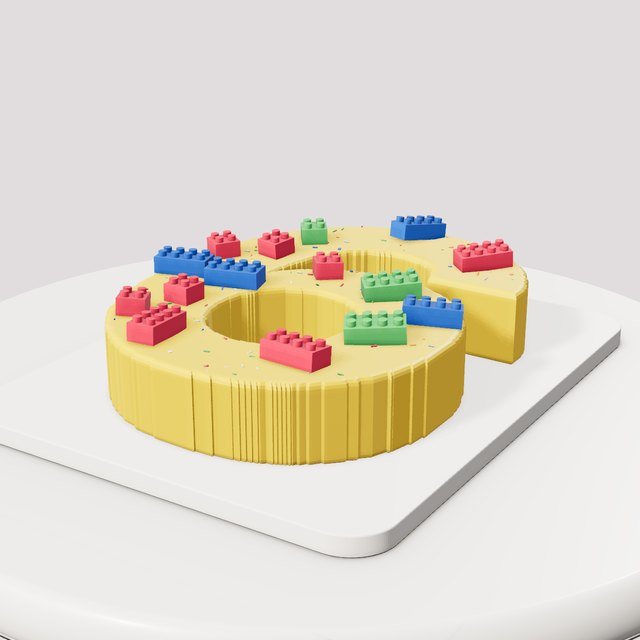
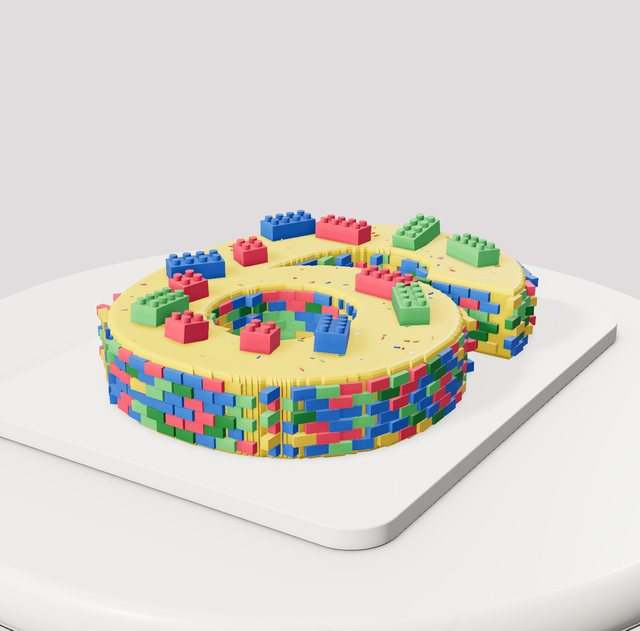
Signature cakes: true shapes (money bag, pillow tiers, LEGO brick wall), droopier cow ears
Claude-Session: https://claude.ai/code/session_016sN14hzH19WJ5zrp8o2QGp

diff --git a/studio.html b/studio.html
@@ -532,7 +532,7 @@ const prof=s=>s<.32?Math.pow(Math.sin(s/.32*PI/2),.6):Math.pow(Math.cos((s-.32)/
 
 // Hand-made wobble of a tier wall. Shared by the tier mesh and every piece of piping, so piping follows the real surface.
 function tierWobble(h,ch,seed){const f=fbm(4,3,seed),r0=rng(seed),p1=r0()*6.28,p2=r0()*6.28;return(a,y)=>{const u=((a/(2*PI))%1+1)%1,t=Math.min(1,Math.max(0,y/h));return 1+ch*(.004*Math.sin(a*2+p1+t*1.4)+.003*Math.sin(a*3+p2)+(f(u,t*.6)-.5)*.006+.004*Math.sin(PI*t))}}
-function tierGeo(r,h,edge,W,rows=30,segs=200,SH=null){const soft=edge==='soft',P=[],b=soft?Math.min(h*.07,.32):Math.min(h*.018,.07),bb=b*.35,lip=soft?h*.006:h*.004;P.push(new V2(0,0),new V2(r-bb,0),new V2(r,bb));for(let k=1;k<=rows;k++)P.push(new V2(r,bb+(h-b-bb)*k/rows));for(let i=1;i<=8;i++){const a=i/8*PI/2;P.push(new V2(r-b+Math.cos(a)*b,h-b+Math.sin(a)*b+Math.sin(a*2)*lip))}P.push(new V2(r-b-.06,h+lip*.6),new V2(r-b-.25,h),new V2(0,h));const g=new T.LatheGeometry(P,segs),p=g.attributes.position;for(let i=0;i<p.count;i++){const x=p.getX(i),y=p.getY(i),z=p.getZ(i),rr=Math.hypot(x,z);if(rr<1e-6)continue;const aa=Math.atan2(z,x),k=rr>r*.9?W(aa,y):(SH?SH(aa):1);if(k!==1){p.setX(i,x*k);p.setZ(i,z*k)}}g.computeVertexNormals();return g}
+function tierGeo(r,h,edge,W,rows=30,segs=200,SH=null,PF=null){const soft=edge==='soft',P=[],b=soft?Math.min(h*.07,.32):Math.min(h*.018,.07),bb=b*.35,lip=soft?h*.006:h*.004;P.push(new V2(0,0),new V2(r-bb,0),new V2(r,bb));for(let k=1;k<=rows;k++)P.push(new V2(r,bb+(h-b-bb)*k/rows));for(let i=1;i<=8;i++){const a=i/8*PI/2;P.push(new V2(r-b+Math.cos(a)*b,h-b+Math.sin(a)*b+Math.sin(a*2)*lip))}P.push(new V2(r-b-.06,h+lip*.6),new V2(r-b-.25,h),new V2(0,h));const g=new T.LatheGeometry(P,segs),p=g.attributes.position;for(let i=0;i<p.count;i++){const x=p.getX(i),y=p.getY(i),z=p.getZ(i),rr=Math.hypot(x,z);if(rr<1e-6)continue;const aa=Math.atan2(z,x),k0=rr>r*.9?W(aa,y):(SH?SH(aa):1),k=PF?k0*PF(y/h):k0;if(k!==1){p.setX(i,x*k);p.setZ(i,z*k)}}g.computeVertexNormals();return g}
 
 // Piped rosettes like a 1M open star tip: start in the center, swirl outward about 1.4 turns, ease off the pressure so the tail tucks in with no point.
 // 2D closed star gives more, finer ridges and a tighter flower-like swirl.
@@ -1131,6 +1131,8 @@ const texFade=(yy,h)=>smooth(.03,.3,yy)*smooth(h-.02,h-.32,yy);
 
 // ---------------------------------------------------------------- Cake shapes
 // Each shape gives the edge distance at angle a, as a multiple of the tier's radius (half its size).
+// Side profiles: scale a tier's width along its height (0 = bottom, 1 = top). Used for a gathered money bag and puffy pillow cakes.
+const PROFILES={bag:u=>(u=Math.min(1,Math.max(0,u)))<.3?.8+.2*Math.sin(u/.3*PI/2):.3+.7*Math.pow(Math.cos((u-.3)/.7*PI/2),.9),pillow:u=>.9+.1*Math.sin(PI*Math.min(1,Math.max(0,u))),dome:u=>.93+.07*Math.sin(PI*Math.min(1,Math.max(0,u)))};
 const SHAPES={round:'Round',square:'Square',hexagon:'Hexagon',heart:'Heart',petal:'Petal',oval:'Oval'};
 const HEART_LUT=(()=>{const pts=[];for(let i=0;i<1440;i++){const t=i/1440*2*PI,hx=16*Math.sin(t)**3,hy=13*Math.cos(t)-5*Math.cos(2*t)-2*Math.cos(3*t)-Math.cos(4*t),X=hx,Z=-(hy+1.5);pts.push([Math.atan2(Z,X),Math.hypot(X,Z)/16])}pts.sort((a,b)=>a[0]-b[0]);
  const N=720,L=new Float32Array(N);for(let i=0;i<N;i++){const a=-PI+i/N*2*PI;let j=pts.findIndex(p=>p[0]>=a);if(j<=0)j=j<0?0:1;const p0=pts[(j-1+pts.length)%pts.length],p1=pts[j%pts.length],da=(p1[0]-p0[0])||1e-6;L[i]=p0[1]+(p1[1]-p0[1])*Math.min(1,Math.max(0,(a-p0[0])/da))}return L})();
@@ -1392,7 +1394,7 @@ function dollarFaceParts(q,c,mode,dc){const g=dollarGeo();g.scale(1.6,1.6,.35);g
 function sugarBowParts(q,c){const g=bowGeo(q,.9);g.rotateX(-PI/2);return[[bowMat(c),g]]}
 function cowTopParts(q,c,mode,dc){const horns=[],ears=[],inner=[];const sp=(dc&&dc.spread)||1.15;
  for(const sd of[-1,1]){const pts=[];for(let i=0;i<=12;i++){const t=i/12;pts.push(new V3(sd*(sp-.1*t+.18*t*t),t*.95,-.05*t))}const tube=new T.TubeGeometry(new T.CatmullRomCurve3(pts),20,.16,14,false),pp=tube.attributes.position;for(let i=0;i<pp.count;i++){const y=pp.getY(i),k=Math.max(.15,1-y/1.05),cx=sd*(sp-.1*(y/.95)+.18*(y/.95)**2);pp.setX(i,cx+(pp.getX(i)-cx)*k);pp.setZ(i,pp.getZ(i)*k)}tube.computeVertexNormals();horns.push(tube);
-  const ear=new T.SphereGeometry(1,24,14);ear.scale(.5,.06,.28);ear.rotateZ(sd*.35);ear.translate(sd*(sp+.95),-.05,.25);ears.push(ear);const inn=new T.SphereGeometry(1,20,12);inn.scale(.38,.05,.2);inn.rotateZ(sd*.35);inn.translate(sd*(sp+.98),-.02,.29);inner.push(inn)}
+  const ear=new T.SphereGeometry(1,24,14);ear.scale(.62,.07,.34);ear.rotateZ(-sd*.5);ear.translate(sd*(sp+.55),-.12,.1);ears.push(ear);const inn=new T.SphereGeometry(1,20,12);inn.scale(.45,.06,.24);inn.rotateZ(-sd*.5);inn.translate(sd*(sp+.55),-.09,.16);inner.push(inn)}
  const bows=[];for(const sd of[-1,1]){const b=bowGeo(q,.8);b.translate(sd*sp,.25,.25);bows.push(b)}
  return[[dmat('#1d1b1f',{r:.35,cc:.5}),mg(horns)],[dmat('#fbf7f1',{r:.45,cc:.3}),mg(ears)],[dmat('#f3a6c0',{r:.45,cc:.3}),mg(inner)],[bowMat(c),mergeGeometries(bows)]]}
 function cowFaceParts(q,c,mode,dc){const black=[],white=[],pink=[],dark=[];
@@ -1533,6 +1535,13 @@ Object.assign(DECOR,{
  ic('glove','<ellipse cx="19" cy="19" rx="9" ry="6" fill="#c7843f"/><rect x="12" y="6" width="3" height="11" rx="1.5" fill="#c7843f"/><rect x="17" y="4" width="3" height="12" rx="1.5" fill="#c7843f"/><rect x="22" y="6" width="3" height="11" rx="1.5" fill="#c7843f"/>');
  ic('bat','<rect x="6" y="13" width="28" height="4" rx="2" fill="#c79a5b" transform="rotate(-18 20 15)"/>');
  ic('monohoop','<circle cx="20" cy="14" r="10" fill="none" stroke="#d4ae5a" stroke-width="2"/><path d="M15 19V9l5 6 5-6v10" stroke="#d4ae5a" stroke-width="1.8" fill="none"/>')}
+// ---- puffy pillow top: a square dome with pinched corners and gold tassels ----
+function pillowTopParts(q,c,mode,dc){const N=40,g=new T.PlaneGeometry(2,2,N,N);g.rotateX(-PI/2);const p=g.attributes.position;for(let i=0;i<p.count;i++){const x=p.getX(i),z=p.getZ(i),ex=1-Math.pow(Math.abs(x),2.4),ez=1-Math.pow(Math.abs(z),2.4),pinch=1-.5*Math.pow(Math.abs(x*z),1.3);p.setY(i,.3*Math.max(0,ex*ez)*pinch)}g.computeVertexNormals();
+ const tass=[];for(const sx of[-1,1])for(const sz of[-1,1]){const t=new T.SphereGeometry(.07,12,8);t.translate(sx*.99,.05,sz*.99);tass.push(t);const t2=new T.ConeGeometry(.05,.18,10);t2.rotateX(PI);t2.translate(sx*1.02,-.02,sz*1.02);tass.push(t2)}
+ return[[dmat(c,{r:.5,sh:.45}),norm(g)],[sgMat.metal('#d4ae5a'),mg(tass)]]}
+DECOR.pillowtop={label:'Puffy Pillow Top',layouts:['cluster'],layout:'cluster',count:1,max:1,color:'#fbf7f1',colors:['#fbf7f1','#f3d6d9','#c9dbef'],sp:3,side:'up',sink:0,tilt:[0,0],spin:0,make:pillowTopParts};
+DECOR_ICONS.pillowtop=di('<path d="M6 22q14-14 28 0q-14 4-28 0z" fill="#fbf7f1" stroke="#d9cdbd"/><circle cx="6" cy="22" r="1.6" fill="#d4ae5a"/><circle cx="34" cy="22" r="1.6" fill="#d4ae5a"/>');
+{const c=DECOR_CATS.find(x=>x.key==='signature');void 0}
 
 // ---------- Signature cakes: Sprinkle Me Silly's real cakes, rebuilt in the Studio ----------
 const SIG='Signature Cakes';
@@ -1559,10 +1568,10 @@ THEMES.unshift(
   newTier(6,4.8,{color:'#7cc8b8',finish:'fondant',top:'none',bottom:'none',decor:[DC('glitterspheres','cluster',5,{color:'#b0825f',size:330}),DC('glitterspheres','cluster',4,{color:'#f3ead8',size:310}),DC('spheres','cluster',3,{color:'#5fb3a3',size:300}),DC('glitterspheres','cascade',4,{color:'#b0825f',rot:-30,size:260}),DC('glitterspheres','cascade',3,{color:'#f3ead8',rot:-28,size:260}),DC('sprinkles','cascade',130,{mix:['#5fb3a3','#d4ae5a','#c9ccd2','#fbf7f1'],rot:-24})]})]}},
  {key:'sig_cow',name:'Pink Bow Cow',tag:SIG,blurb:'A tall white cow cake with black spots, a cartoon face and pink nose, black horns, floppy ears and pink bows.',d:{board:'white',boardColor:'#fbf7f1',topper:'none',tiers:[
   newTier(7,6,{color:'#ffffff',finish:'fondant',print:'cow',printColor:'#1d1b1f',top:'none',bottom:'none',decor:[DC('cowface','band',1,{color:'#f3a6c0',size:285,R:3.5,rot:55}),DC('cowtop','cluster',1,{color:'#f3a6c0',size:170,center:true,face:95})]})]}},
- {key:'sig_pillows',name:'Gold Damask Pillows',tag:SIG,blurb:'Stacked ivory pillow tiers with gold damask, gold rope trim, a silver rose tier and a crown of ivory roses.',d:{board:'silver',boardShape:'square',topper:'none',tiers:[
-  newTier(10,3.6,{shape:'square',color:'#fbf7f1',finish:'fondant',texture:'dimple',top:'rope',pipe:'#d4ae5a',bottom:'rope',bottomColor:'#d4ae5a',stencil:{pattern:'damask',color:'#d4ae5a',size:1.8,height:1.6,y:-.8},decor:[DC('roses','band',12,{color:'#fbf7f1',size:90,y:-1.4})]}),
-  newTier(7.5,3.4,{shape:'square',color:'#fbf7f1',finish:'fondant',texture:'ruffle',top:'none',bottom:'scrolls',bottomColor:'#d4ae5a'}),
-  newTier(5.5,3.8,{color:'#c9ccd2',texture:'rosettes',top:'none',bottom:'none',decor:[DC('roses','cluster',9,{color:'#fbf7f1'})]})]}},
+ {key:'sig_pillows',name:'Gold Damask Pillows',tag:SIG,blurb:'A pillow cake: a base tier in gold damask with a ring of ivory roses, a puffy pleated pillow with pinched corners and gold tassels, and a silver rose dome topped with ivory roses.',d:{board:'silver',boardShape:'square',topper:'none',tiers:[
+  newTier(10,3.6,{shape:'square',color:'#fbf7f1',finish:'fondant',texture:'dimple',prof:'pillow',top:'rope',pipe:'#d4ae5a',bottom:'rope',bottomColor:'#d4ae5a',stencil:{pattern:'damask',color:'#d4ae5a',size:1.8,height:1.8,y:-.8},decor:[DC('roses','band',16,{color:'#fbf7f1',size:130,y:-1.4})]}),
+  newTier(7.5,3.2,{shape:'square',color:'#fbf7f1',finish:'fondant',texture:'ruffle',prof:'pillow',top:'none',bottom:'scrolls',bottomColor:'#d4ae5a'}),
+  newTier(5.5,3.4,{color:'#c9ccd2',texture:'rosettes',prof:'dome',top:'none',bottom:'none',decor:[DC('roses','cluster',10,{color:'#fbf7f1',size:130})]})]}},
  {key:'sig_ruffles',name:'Forever Ruffles',tag:SIG,blurb:'Four ivory fondant tiers with a sweep of ruffles, a lace band and a clean top tier ready for your script topper.',d:{board:'silver',topper:'none',tiers:[
   newTier(10,5,{color:'#fbf8f2',finish:'fondant',texture:'ruffle',top:'none',bottom:'none'}),
   newTier(8,4.8,{color:'#fbf8f2',finish:'fondant',texture:'ruffle',top:'none',bottom:'none'}),
@@ -1581,7 +1590,7 @@ THEMES.unshift(
   newTier(6,5.6,{color:'#6fb3e8',finish:'fondant',ombre:true,ombreColor:'#eef6fc',top:'none',bottom:'none',decor:[DC('clouds','scatter',10,{color:'#fbf7f1',size:150}),DC('balloon','cluster',1,{color:'#7fb0e8',size:400,center:true,face:95}),DC('teddy','cluster',1,{color:'#fbf7f1',size:170,face:95})]})]}},
  {key:'sig_sports',name:'All-Star Sports Number',tag:SIG,blurb:'A field-green number cake with a soccer ball, baseball and glove, basketball, football and a wooden bat.',d:{cakeType:'number',number:{text:'2',height:13,layers:2,cake:'vanilla',cream:'#4f9a4a',style:'frosted'},board:'white',boardColor:'#e8762c',topper:'none',tiers:[
   newTier(8,4,{decor:[DC('soccerball','cluster',1,{size:360}),DC('baseball2','cluster',1,{size:320}),DC('glove','cluster',1,{size:380}),DC('hoopball','cluster',1,{size:360}),DC('football','cluster',1,{size:330}),DC('bat','cluster',1,{size:250})]})]}},
- {key:'sig_blocks',name:'Building Block Number',tag:SIG,blurb:'A sunny yellow number cake with toy bricks, rainbow sprinkles and a border of bricks.',d:{cakeType:'number',number:{text:'6',height:13,layers:2,cake:'vanilla',cream:'#f2c230',style:'frosted'},board:'white',boardColor:'#2f3f6b',topper:'none',tiers:[
+ {key:'sig_blocks',name:'Building Block Number',tag:SIG,blurb:'A sunny yellow number 6 with a blue window, a mosaic wall of toy bricks around the side, rainbow sprinkles and bricks on top.',d:{cakeType:'number',number:{text:'6',height:13,layers:2,cake:'vanilla',cream:'#f6c919',style:'frosted',wall:['#e8475f','#2f6fd0','#f2c230','#5cc06c','#2f6fd0','#e8475f','#2a7a3a'],wallH:.95,holeFill:'#2f6fd0'},board:'white',boardColor:'#2f3f6b',topper:'none',tiers:[
   newTier(8,4,{decor:[DC('bricks','cluster',18,{size:250,mix:['#e8475f','#2f6fd0','#5cc06c']}),DC('sprinkles','cluster',260,{mix:['#e8475f','#2f6fd0','#5cc06c','#f28a3a','#fbf7f1']})]})]}},
  {key:'sig_movie',name:'Movie Night Popcorn',tag:SIG,blurb:'A red and white striped popcorn tier overflowing with popcorn and a "13" Admit One ticket, over a black and white chevron clapperboard tier with stars.',d:{board:'gold',topper:'none',tiers:[
   newTier(9,4.6,{color:'#fbf7f1',finish:'fondant',top:'none',bottom:'none',stencil:{pattern:'chevron',color:'#1d1b1f',size:1.4,height:4.6},decor:[DC('clapper','band',1,{size:210,rot:95}),DC('stars','scatter',12,{mix:['#f3a6c0','#7fd3cc','#f2c230'],size:150}),DC('dragees','scatter',20,{color:'#f2c230',size:140})]}),
@@ -1591,10 +1600,10 @@ THEMES.unshift(
  {key:'sig_bee',name:'Bumble Bee Garden',tag:SIG,blurb:'A fuzzy black piped bee with a big smiling face, wings and looped antennae, resting in a garden of piped grass and sugar flowers.',d:{board:'white',boardColor:'#c9d96a',topper:'none',tiers:[
   newTier(12,1.8,{color:'#5cae4a',texture:'grass',top:'none',bottom:'none',decor:[DC('daisies','scatter',10,{color:'#fbf7f1',size:130}),DC('blossoms','scatter',16,{mix:['#f3a6c0','#f2c230','#7fb0e8','#e8475f'],size:130})]}),
   newTier(8,4.6,{color:'#1d1b1f',texture:'fur',top:'none',bottom:'none',decor:[DC('beeface','band',1,{color:'#ffd21f',size:330,R:4,rot:55,y:-.2}),DC('beetop','cluster',1,{color:'#ffd21f',size:230,center:true,face:95})]})]}},
- {key:'sig_moneybag',name:'Money Bag Birthday',tag:SIG,blurb:'A red money bag cake with a gathered neck tied with black rope, a big gold dollar sign, cash and gold dollar signs bursting out the top.',d:{board:'white',boardColor:'#e9eaec',topper:'none',tiers:[
-  newTier(8,4.4,{color:'#c1442e',finish:'fondant',texture:'knife',top:'none',bottom:'none',decor:[DC('dollarface','band',1,{color:'#d4ae5a',size:300,R:4,rot:95})]}),
-  newTier(6,2.6,{color:'#b73a26',finish:'fondant',texture:'knife',top:'none',bottom:'none'}),
-  newTier(4.4,2.2,{color:'#c1442e',finish:'fondant',texture:'knife',top:'rope',pipe:'#1d1b1f',bottom:'rope',bottomColor:'#1d1b1f',decor:[DC('cash','cluster',14,{size:260,center:true}),DC('dollarsign','cluster',3,{color:'#d4ae5a',size:210,center:true})]})]}});
+ {key:'sig_moneybag',name:'Money Bag Birthday',tag:SIG,blurb:'A red money bag cake with a gathered neck tied in thick black rope, a big gold dollar sign, and cash and gold dollar signs bursting out the top.',d:{board:'white',boardColor:'#e9eaec',topper:'none',tiers:[
+  newTier(9,8,{color:'#c1442e',finish:'fondant',prof:'bag',top:'none',bottom:'none',decor:[DC('dollarface','band',1,{color:'#d4ae5a',size:340,R:4.5,rot:55,y:-1.2})]}),
+  newTier(3.2,1.8,{color:'#b73a26',finish:'fondant',top:'rope',pipe:'#1d1b1f',bottom:'rope',bottomColor:'#1d1b1f'}),
+  newTier(4.4,1.8,{color:'#c1442e',finish:'fondant',texture:'ruffle',top:'none',bottom:'none',decor:[DC('cash','cluster',22,{size:340,center:true}),DC('dollarsign','cluster',3,{color:'#d4ae5a',size:230,center:true})]})]}});
 Object.assign(DECOR,Object.fromEntries(Object.entries(MODELS).map(([k,d])=>['m_'+k,{label:d[0]+' (3D)',layouts:['cluster','crown'],layout:'cluster',count:1,max:6,sp:3,side:'up',spin:.3,sink:0,embed:0,noTilt:true,model:true,make:(q,c,mode,dc)=>{const e=MODEL_CACHE[k];if(!e){loadModel(k);return[]}if(!e.parts)return[];if(e.pieces){const n=e.pieces.length,pi=dc?.piece!=null?dc.piece%n:Math.floor(q()*n);return e.pieces[pi].map(([m,g])=>[c?tintMat(m,c):m,g.clone()])}return e.parts.map(([m,g],pi)=>{const pc=dc?.partColors?.[pi]||c;return[pc?tintMat(m,pc):m,g.clone()]})}}])));
 for(const v of Object.values(DECOR))if(v&&v.label)v.label=capWords(v.label);
 DECOR_CATS.push({key:'m_figures',label:'3D Figures',items:['mermaid','princess','unicorn','unicornstand','unicrown','wedding','fairytale'].map(k=>'m_'+k)},{key:'m_animals',label:'3D Animals',items:['giraffe3','panda','sheep','rabbit3','corgi','duck','rubberduck','swans','butterfly3','panda2'].map(k=>'m_'+k)},{key:'m_dino',label:'3D Dinosaurs',items:['dino','babydino','spino','dino2','friendlydino','littledino','dino3','camodino','dinoemerge','jungledino'].map(k=>'m_'+k)},{key:'m_ocean',label:'3D Ocean',items:['oceangate','oceandancer','oceanjewel','oceansmile','oceanbloom','mermaidtale','mermaiddelight','unimermaid','mermaidtail','starfish','fish1','fish2'].map(k=>'m_'+k)},{key:'m_food',label:'3D Treats And Food',items:['corndog','popcorn','foodA','foodB','fries','pizza','burger','coffee'].map(k=>'m_'+k)},{key:'m_vehicles',label:'3D Cars And Sports',items:['carcartoon','cartooncar','whitecar','redcar','weatheredcar','baseball','basketball','tennis'].map(k=>'m_'+k)},{key:'m_trees',label:'3D Trees And Nature',items:['tree2','tree3','pinetree','mushroom','snowflake','leaf','mountain','fence'].map(k=>'m_'+k)},{key:'m_themes',label:'3D Toppers',items:['gradcap','rocket','shuttle','galleon','chest','globe','skull','wings','crystal','crystalflake'].map(k=>'m_'+k)},{key:'m_frames',label:'Frames',items:['frame','frame2','baroqueframe','luxe'].map(k=>'m_'+k)},{key:'m_bows',label:'Bows & Ribbons',items:['bowpastel','bowred'].map(k=>'m_'+k)});
@@ -1678,6 +1687,14 @@ function buildNumber(D,add,setPart){const N=D.number||{},text=(N.text||'1').slic
  if(style==='frosted'){const H=layers*LH+(layers-1)*.2,g=ext(H,.16,.14);g.translate(0,y+.16,0);setPart('number');add(smoothM,g);y+=H+.34}
  else if(style==='naked'){for(let L=0;L<layers;L++){const g=ext(LH,.1,.08);g.translate(0,y+.1,0);setPart('number');add(cakeM,g);y+=LH+.2;const f=ext(.14,.04,.03);f.translate(0,y-.08,0);setPart('kisses');add(smoothM,f);y+=.08}}
  else for(let L=0;L<layers;L++){const g=ext(LH,.1,.08);g.translate(0,y+.1,0);setPart('number');add(cakeM,g);y+=LH+.2;kisses(y-.06);y+=kh*.92}
+ // Optional brick wall around the sides (toy brick cakes) and a filled-in center (a window in the 6, 8, 0, 9...)
+ if(N.wall&&N.wall.length){const cols=N.wall,H0=(N.wallH??.62)*(y-bh-.3),rows=Math.max(2,Math.round(H0/.3)),rh=H0/rows,step=.64,mats=cols.map(c=>dmat(c,{r:.32,cc:.6,ccr:.1,sh:.1})),lists=cols.map(()=>[]),wq=rng(4242),wy=bh+.2;
+  const walk=loop=>{const n=loop.length,P2=[];let need=0;for(let i=0;i<n;i++){const a=loop[i],b=loop[(i+1)%n],dx=b[0]-a[0],dz=b[1]-a[1],L=Math.hypot(dx,dz);if(L<1e-6)continue;let t=need;while(t<L){const u=t/L;P2.push([a[0]+dx*u,a[1]+dz*u,dx/L,dz/L]);t+=step}need=t-L}
+   for(const[x,z,tx,tz]of P2){let nx=tz,nz=-tx;if(inside(x+nx*.2,z+nz*.2)){nx=-nx;nz=-nz}
+    for(let rr=0;rr<rows;rr++){const ci=Math.floor(wq()*cols.length),sh=(rr%2)*step*.5,g=new T.BoxGeometry(step*.9,rh*.92,.24);g.rotateY(Math.atan2(-tz,tx));g.translate(x+tx*sh+nx*.2,wy+(rr+.5)*rh,z+tz*sh+nz*.2);lists[ci].push(g)}}};
+  polys.forEach(pl=>{walk(pl.outer);pl.holes.forEach(walk)});
+  lists.forEach((l,ci)=>{if(l.length){setPart('number');add(mats[ci],mergeGeometries(l))}})}
+ if(N.holeFill){const fm=dmat(N.holeFill,{r:.18,cc:1,ccr:.04,sh:.2});polys.forEach(pl=>pl.holes.forEach(h=>{const sh=new T.Shape(h.map(([x,z])=>new V2(x,-z)));const g=new T.ExtrudeGeometry(sh,{depth:.5,bevelEnabled:false,curveSegments:8});g.rotateX(-PI/2);g.translate(0,bh,0);setPart('number');add(fm,g)}))}
  totalH=y;boardR=Math.max(numSize.w,numSize.d)/2+1.6;return{inside,deep,top:y,pts,y0:bh}}
 function placeNumberDecor(dc,ctx,add){const def=DECOR[dc.type];if(!def||def.mane)return;const q=rng(dc.seed||7),S=(dc.size??100)/100,n=Math.max(1,Math.min(def.max,Math.round(dc.count||1))),c=dc.color||def.color,part='deco'+dc.id,W=numSize.w/2,Dd=numSize.d/2,placed=ctx.placed;
  const spot=(rr,tries=80)=>{for(let t=0;t<tries;t++){const x=(q()*2-1)*W,z=(q()*2-1)*Dd;if(!ctx.deep(x,z,rr*.6))continue;if(placed.some(([px,pz,pr])=>(px-x)**2+(pz-z)**2<(pr+rr)**2*.85))continue;placed.push([x,z,rr]);return[x,z]}return null};
@@ -1867,7 +1884,7 @@ function buildCake(){
  makeTable(D);
  let y=bh;
  D.tiers.forEach((t,i)=>{curTier=i;curPart='piping';const r=t.d/2,h=t.h,q=rng(1000+i*97),J=a=>(q()*2-1)*a*ch,shade=()=>1+J(.035),next=D.tiers[i+1],nr=next?next.d/2:0;
-  const y0=y,W0=tierWobble(h,ch,7+i*13),T3=t.texture!=='seminaked'?TEX3D[t.texture]:null,Dsp=T3?T3.make(r,h,q):null,SHf=shapeK(t.shape),W=Dsp?(a,yy)=>SHf(a)*W0(a,yy)+Dsp(a,yy)*texFade(yy,h)/r:(a,yy)=>SHf(a)*W0(a,yy),R_at=(a,yy)=>r*W(a,yy-y0),off=(a,yy)=>R_at(a,yy)-r;tierShapes[i]={R_at,y0,h,r};const PR=t.print&&t.print!=='none'&&t.texture!=='seminaked'?printFn(t.print,r,h,1000+i*31):null;const tg=tierGeo(r,h,t.edge,W,Math.max(PR?110:0,T3?.rows||(t.shape&&t.shape!=='round'?40:30)),Math.max(PR?480:0,T3?.segs||(t.shape&&t.shape!=='round'?320:200)),SHf);if((t.ombre||t.texture==='stripes'||PR)&&t.texture!=='seminaked'){const c1=new T.Color(t.color),c2=new T.Color(t.ombre?(t.ombreColor||'#fbf7f1'):t.color),c3=new T.Color(t.stripeColor||'#e9a6ba'),c4=new T.Color(t.printColor||'#1d1b1f'),cc=new T.Color();tintTo(tg,(x,yy,z)=>{cc.copy(c1).lerp(c2,smooth(h*.08,h*.95,yy));if(t.texture==='stripes'&&Dsp&&Math.hypot(x,z)>r*.9){const d=Dsp(Math.atan2(z,x),yy)*texFade(yy,h);cc.lerp(c3,smooth(-.012,-.038,d))}if(PR&&Math.hypot(x,z)>r*.8&&yy<h-.05){const k=PR(Math.atan2(z,x),yy);if(k>0)cc.lerp(c4,k)}return[cc.r,cc.g,cc.b]})}const m=new T.Mesh(tg,surfaceMat(t));m.position.y=y;m.castShadow=m.receiveShadow=true;m.userData={tier:i,part:'surface'};cake.add(m);tierMeshes.push(m);
+  const PF=t.prof&&PROFILES[t.prof]?PROFILES[t.prof]:null,y0=y,W0=tierWobble(h,ch,7+i*13),T3=t.texture!=='seminaked'?TEX3D[t.texture]:null,Dsp=T3?T3.make(r,h,q):null,SHf=shapeK(t.shape),W=Dsp?(a,yy)=>SHf(a)*W0(a,yy)+Dsp(a,yy)*texFade(yy,h)/r:(a,yy)=>SHf(a)*W0(a,yy),R_at=(a,yy)=>r*W(a,yy-y0)*(PF?PF((yy-y0)/h):1),off=(a,yy)=>R_at(a,yy)-r;tierShapes[i]={R_at,y0,h,r};const PR=t.print&&t.print!=='none'&&t.texture!=='seminaked'?printFn(t.print,r,h,1000+i*31):null;const tg=tierGeo(r,h,t.edge,W,Math.max(PR?110:0,T3?.rows||(t.shape&&t.shape!=='round'?40:30)),Math.max(PR?480:0,T3?.segs||(t.shape&&t.shape!=='round'?320:200)),SHf,PF);if((t.ombre||t.texture==='stripes'||PR)&&t.texture!=='seminaked'){const c1=new T.Color(t.color),c2=new T.Color(t.ombre?(t.ombreColor||'#fbf7f1'):t.color),c3=new T.Color(t.stripeColor||'#e9a6ba'),c4=new T.Color(t.printColor||'#1d1b1f'),cc=new T.Color();tintTo(tg,(x,yy,z)=>{cc.copy(c1).lerp(c2,smooth(h*.08,h*.95,yy));if(t.texture==='stripes'&&Dsp&&Math.hypot(x,z)>r*.9){const d=Dsp(Math.atan2(z,x),yy)*texFade(yy,h);cc.lerp(c3,smooth(-.012,-.038,d))}if(PR&&Math.hypot(x,z)>r*.8&&yy<h-.05){const k=PR(Math.atan2(z,x),yy);if(k>0)cc.lerp(c4,k)}return[cc.r,cc.g,cc.b]})}const m=new T.Mesh(tg,surfaceMat(t));m.position.y=y;m.castShadow=m.receiveShadow=true;m.userData={tier:i,part:'surface'};cake.add(m);tierMeshes.push(m);
   const col=k=>t[k]||t.pipe,pm=pipeMat(t.pipe),am=pipeMat(t.accent),pearlM=METALS[t.pearlColor]?pearlColorMat(t.pearlColor):pipeMat(t.pearlColor||t.pipe),topM=pipeMat(col('topColor')),botM=pipeMat(col('bottomColor')),sideM=pipeMat(col('sideColor')),dropM=pipeMat(col('dropColor'));
   const pipeScale=Math.max(.75,Math.min(1.25,t.d/9));
   const AR=t.pipeArc&&t.pipeArc.span<360?t.pipeArc:null,inArc=a=>{if(!AR)return true;let d=((a-PI/2-(AR.center||0)*PI/180)%(2*PI)+3*PI)%(2*PI)-PI;return Math.abs(d)<=AR.span*PI/360};

diff --git a/tools/signature-decor.js b/tools/signature-decor.js
@@ -62,7 +62,7 @@ function dollarFaceParts(q,c,mode,dc){const g=dollarGeo();g.scale(1.6,1.6,.35);g
 function sugarBowParts(q,c){const g=bowGeo(q,.9);g.rotateX(-PI/2);return[[bowMat(c),g]]}
 function cowTopParts(q,c,mode,dc){const horns=[],ears=[],inner=[];const sp=(dc&&dc.spread)||1.15;
  for(const sd of[-1,1]){const pts=[];for(let i=0;i<=12;i++){const t=i/12;pts.push(new V3(sd*(sp-.1*t+.18*t*t),t*.95,-.05*t))}const tube=new T.TubeGeometry(new T.CatmullRomCurve3(pts),20,.16,14,false),pp=tube.attributes.position;for(let i=0;i<pp.count;i++){const y=pp.getY(i),k=Math.max(.15,1-y/1.05),cx=sd*(sp-.1*(y/.95)+.18*(y/.95)**2);pp.setX(i,cx+(pp.getX(i)-cx)*k);pp.setZ(i,pp.getZ(i)*k)}tube.computeVertexNormals();horns.push(tube);
-  const ear=new T.SphereGeometry(1,24,14);ear.scale(.5,.06,.28);ear.rotateZ(sd*.35);ear.translate(sd*(sp+.95),-.05,.25);ears.push(ear);const inn=new T.SphereGeometry(1,20,12);inn.scale(.38,.05,.2);inn.rotateZ(sd*.35);inn.translate(sd*(sp+.98),-.02,.29);inner.push(inn)}
+  const ear=new T.SphereGeometry(1,24,14);ear.scale(.62,.07,.34);ear.rotateZ(-sd*.5);ear.translate(sd*(sp+.55),-.12,.1);ears.push(ear);const inn=new T.SphereGeometry(1,20,12);inn.scale(.45,.06,.24);inn.rotateZ(-sd*.5);inn.translate(sd*(sp+.55),-.09,.16);inner.push(inn)}
  const bows=[];for(const sd of[-1,1]){const b=bowGeo(q,.8);b.translate(sd*sp,.25,.25);bows.push(b)}
  return[[dmat('#1d1b1f',{r:.35,cc:.5}),mg(horns)],[dmat('#fbf7f1',{r:.45,cc:.3}),mg(ears)],[dmat('#f3a6c0',{r:.45,cc:.3}),mg(inner)],[bowMat(c),mergeGeometries(bows)]]}
 function cowFaceParts(q,c,mode,dc){const black=[],white=[],pink=[],dark=[];
@@ -203,6 +203,13 @@ Object.assign(DECOR,{
  ic('glove','<ellipse cx="19" cy="19" rx="9" ry="6" fill="#c7843f"/><rect x="12" y="6" width="3" height="11" rx="1.5" fill="#c7843f"/><rect x="17" y="4" width="3" height="12" rx="1.5" fill="#c7843f"/><rect x="22" y="6" width="3" height="11" rx="1.5" fill="#c7843f"/>');
  ic('bat','<rect x="6" y="13" width="28" height="4" rx="2" fill="#c79a5b" transform="rotate(-18 20 15)"/>');
  ic('monohoop','<circle cx="20" cy="14" r="10" fill="none" stroke="#d4ae5a" stroke-width="2"/><path d="M15 19V9l5 6 5-6v10" stroke="#d4ae5a" stroke-width="1.8" fill="none"/>')}
+// ---- puffy pillow top: a square dome with pinched corners and gold tassels ----
+function pillowTopParts(q,c,mode,dc){const N=40,g=new T.PlaneGeometry(2,2,N,N);g.rotateX(-PI/2);const p=g.attributes.position;for(let i=0;i<p.count;i++){const x=p.getX(i),z=p.getZ(i),ex=1-Math.pow(Math.abs(x),2.4),ez=1-Math.pow(Math.abs(z),2.4),pinch=1-.5*Math.pow(Math.abs(x*z),1.3);p.setY(i,.3*Math.max(0,ex*ez)*pinch)}g.computeVertexNormals();
+ const tass=[];for(const sx of[-1,1])for(const sz of[-1,1]){const t=new T.SphereGeometry(.07,12,8);t.translate(sx*.99,.05,sz*.99);tass.push(t);const t2=new T.ConeGeometry(.05,.18,10);t2.rotateX(PI);t2.translate(sx*1.02,-.02,sz*1.02);tass.push(t2)}
+ return[[dmat(c,{r:.5,sh:.45}),norm(g)],[sgMat.metal('#d4ae5a'),mg(tass)]]}
+DECOR.pillowtop={label:'Puffy Pillow Top',layouts:['cluster'],layout:'cluster',count:1,max:1,color:'#fbf7f1',colors:['#fbf7f1','#f3d6d9','#c9dbef'],sp:3,side:'up',sink:0,tilt:[0,0],spin:0,make:pillowTopParts};
+DECOR_ICONS.pillowtop=di('<path d="M6 22q14-14 28 0q-14 4-28 0z" fill="#fbf7f1" stroke="#d9cdbd"/><circle cx="6" cy="22" r="1.6" fill="#d4ae5a"/><circle cx="34" cy="22" r="1.6" fill="#d4ae5a"/>');
+{const c=DECOR_CATS.find(x=>x.key==='signature');void 0}
 
 // ---------- Signature cakes: Sprinkle Me Silly's real cakes, rebuilt in the Studio ----------
 const SIG='Signature Cakes';
@@ -229,10 +236,10 @@ THEMES.unshift(
   newTier(6,4.8,{color:'#7cc8b8',finish:'fondant',top:'none',bottom:'none',decor:[DC('glitterspheres','cluster',5,{color:'#b0825f',size:330}),DC('glitterspheres','cluster',4,{color:'#f3ead8',size:310}),DC('spheres','cluster',3,{color:'#5fb3a3',size:300}),DC('glitterspheres','cascade',4,{color:'#b0825f',rot:-30,size:260}),DC('glitterspheres','cascade',3,{color:'#f3ead8',rot:-28,size:260}),DC('sprinkles','cascade',130,{mix:['#5fb3a3','#d4ae5a','#c9ccd2','#fbf7f1'],rot:-24})]})]}},
  {key:'sig_cow',name:'Pink Bow Cow',tag:SIG,blurb:'A tall white cow cake with black spots, a cartoon face and pink nose, black horns, floppy ears and pink bows.',d:{board:'white',boardColor:'#fbf7f1',topper:'none',tiers:[
   newTier(7,6,{color:'#ffffff',finish:'fondant',print:'cow',printColor:'#1d1b1f',top:'none',bottom:'none',decor:[DC('cowface','band',1,{color:'#f3a6c0',size:285,R:3.5,rot:55}),DC('cowtop','cluster',1,{color:'#f3a6c0',size:170,center:true,face:95})]})]}},
- {key:'sig_pillows',name:'Gold Damask Pillows',tag:SIG,blurb:'Stacked ivory pillow tiers with gold damask, gold rope trim, a silver rose tier and a crown of ivory roses.',d:{board:'silver',boardShape:'square',topper:'none',tiers:[
-  newTier(10,3.6,{shape:'square',color:'#fbf7f1',finish:'fondant',texture:'dimple',top:'rope',pipe:'#d4ae5a',bottom:'rope',bottomColor:'#d4ae5a',stencil:{pattern:'damask',color:'#d4ae5a',size:1.8,height:1.6,y:-.8},decor:[DC('roses','band',12,{color:'#fbf7f1',size:90,y:-1.4})]}),
-  newTier(7.5,3.4,{shape:'square',color:'#fbf7f1',finish:'fondant',texture:'ruffle',top:'none',bottom:'scrolls',bottomColor:'#d4ae5a'}),
-  newTier(5.5,3.8,{color:'#c9ccd2',texture:'rosettes',top:'none',bottom:'none',decor:[DC('roses','cluster',9,{color:'#fbf7f1'})]})]}},
+ {key:'sig_pillows',name:'Gold Damask Pillows',tag:SIG,blurb:'A pillow cake: a base tier in gold damask with a ring of ivory roses, a puffy pleated pillow with pinched corners and gold tassels, and a silver rose dome topped with ivory roses.',d:{board:'silver',boardShape:'square',topper:'none',tiers:[
+  newTier(10,3.6,{shape:'square',color:'#fbf7f1',finish:'fondant',texture:'dimple',prof:'pillow',top:'rope',pipe:'#d4ae5a',bottom:'rope',bottomColor:'#d4ae5a',stencil:{pattern:'damask',color:'#d4ae5a',size:1.8,height:1.8,y:-.8},decor:[DC('roses','band',16,{color:'#fbf7f1',size:130,y:-1.4})]}),
+  newTier(7.5,3.2,{shape:'square',color:'#fbf7f1',finish:'fondant',texture:'ruffle',prof:'pillow',top:'none',bottom:'scrolls',bottomColor:'#d4ae5a'}),
+  newTier(5.5,3.4,{color:'#c9ccd2',texture:'rosettes',prof:'dome',top:'none',bottom:'none',decor:[DC('roses','cluster',10,{color:'#fbf7f1',size:130})]})]}},
  {key:'sig_ruffles',name:'Forever Ruffles',tag:SIG,blurb:'Four ivory fondant tiers with a sweep of ruffles, a lace band and a clean top tier ready for your script topper.',d:{board:'silver',topper:'none',tiers:[
   newTier(10,5,{color:'#fbf8f2',finish:'fondant',texture:'ruffle',top:'none',bottom:'none'}),
   newTier(8,4.8,{color:'#fbf8f2',finish:'fondant',texture:'ruffle',top:'none',bottom:'none'}),
@@ -251,7 +258,7 @@ THEMES.unshift(
   newTier(6,5.6,{color:'#6fb3e8',finish:'fondant',ombre:true,ombreColor:'#eef6fc',top:'none',bottom:'none',decor:[DC('clouds','scatter',10,{color:'#fbf7f1',size:150}),DC('balloon','cluster',1,{color:'#7fb0e8',size:400,center:true,face:95}),DC('teddy','cluster',1,{color:'#fbf7f1',size:170,face:95})]})]}},
  {key:'sig_sports',name:'All-Star Sports Number',tag:SIG,blurb:'A field-green number cake with a soccer ball, baseball and glove, basketball, football and a wooden bat.',d:{cakeType:'number',number:{text:'2',height:13,layers:2,cake:'vanilla',cream:'#4f9a4a',style:'frosted'},board:'white',boardColor:'#e8762c',topper:'none',tiers:[
   newTier(8,4,{decor:[DC('soccerball','cluster',1,{size:360}),DC('baseball2','cluster',1,{size:320}),DC('glove','cluster',1,{size:380}),DC('hoopball','cluster',1,{size:360}),DC('football','cluster',1,{size:330}),DC('bat','cluster',1,{size:250})]})]}},
- {key:'sig_blocks',name:'Building Block Number',tag:SIG,blurb:'A sunny yellow number cake with toy bricks, rainbow sprinkles and a border of bricks.',d:{cakeType:'number',number:{text:'6',height:13,layers:2,cake:'vanilla',cream:'#f2c230',style:'frosted'},board:'white',boardColor:'#2f3f6b',topper:'none',tiers:[
+ {key:'sig_blocks',name:'Building Block Number',tag:SIG,blurb:'A sunny yellow number 6 with a blue window, a mosaic wall of toy bricks around the side, rainbow sprinkles and bricks on top.',d:{cakeType:'number',number:{text:'6',height:13,layers:2,cake:'vanilla',cream:'#f6c919',style:'frosted',wall:['#e8475f','#2f6fd0','#f2c230','#5cc06c','#2f6fd0','#e8475f','#2a7a3a'],wallH:.95,holeFill:'#2f6fd0'},board:'white',boardColor:'#2f3f6b',topper:'none',tiers:[
   newTier(8,4,{decor:[DC('bricks','cluster',18,{size:250,mix:['#e8475f','#2f6fd0','#5cc06c']}),DC('sprinkles','cluster',260,{mix:['#e8475f','#2f6fd0','#5cc06c','#f28a3a','#fbf7f1']})]})]}},
  {key:'sig_movie',name:'Movie Night Popcorn',tag:SIG,blurb:'A red and white striped popcorn tier overflowing with popcorn and a "13" Admit One ticket, over a black and white chevron clapperboard tier with stars.',d:{board:'gold',topper:'none',tiers:[
   newTier(9,4.6,{color:'#fbf7f1',finish:'fondant',top:'none',bottom:'none',stencil:{pattern:'chevron',color:'#1d1b1f',size:1.4,height:4.6},decor:[DC('clapper','band',1,{size:210,rot:95}),DC('stars','scatter',12,{mix:['#f3a6c0','#7fd3cc','#f2c230'],size:150}),DC('dragees','scatter',20,{color:'#f2c230',size:140})]}),
@@ -261,7 +268,7 @@ THEMES.unshift(
  {key:'sig_bee',name:'Bumble Bee Garden',tag:SIG,blurb:'A fuzzy black piped bee with a big smiling face, wings and looped antennae, resting in a garden of piped grass and sugar flowers.',d:{board:'white',boardColor:'#c9d96a',topper:'none',tiers:[
   newTier(12,1.8,{color:'#5cae4a',texture:'grass',top:'none',bottom:'none',decor:[DC('daisies','scatter',10,{color:'#fbf7f1',size:130}),DC('blossoms','scatter',16,{mix:['#f3a6c0','#f2c230','#7fb0e8','#e8475f'],size:130})]}),
   newTier(8,4.6,{color:'#1d1b1f',texture:'fur',top:'none',bottom:'none',decor:[DC('beeface','band',1,{color:'#ffd21f',size:330,R:4,rot:55,y:-.2}),DC('beetop','cluster',1,{color:'#ffd21f',size:230,center:true,face:95})]})]}},
- {key:'sig_moneybag',name:'Money Bag Birthday',tag:SIG,blurb:'A red money bag cake with a gathered neck tied with black rope, a big gold dollar sign, cash and gold dollar signs bursting out the top.',d:{board:'white',boardColor:'#e9eaec',topper:'none',tiers:[
-  newTier(8,4.4,{color:'#c1442e',finish:'fondant',texture:'knife',top:'none',bottom:'none',decor:[DC('dollarface','band',1,{color:'#d4ae5a',size:300,R:4,rot:95})]}),
-  newTier(6,2.6,{color:'#b73a26',finish:'fondant',texture:'knife',top:'none',bottom:'none'}),
-  newTier(4.4,2.2,{color:'#c1442e',finish:'fondant',texture:'knife',top:'rope',pipe:'#1d1b1f',bottom:'rope',bottomColor:'#1d1b1f',decor:[DC('cash','cluster',14,{size:260,center:true}),DC('dollarsign','cluster',3,{color:'#d4ae5a',size:210,center:true})]})]}});
+ {key:'sig_moneybag',name:'Money Bag Birthday',tag:SIG,blurb:'A red money bag cake with a gathered neck tied in thick black rope, a big gold dollar sign, and cash and gold dollar signs bursting out the top.',d:{board:'white',boardColor:'#e9eaec',topper:'none',tiers:[
+  newTier(9,8,{color:'#c1442e',finish:'fondant',prof:'bag',top:'none',bottom:'none',decor:[DC('dollarface','band',1,{color:'#d4ae5a',size:340,R:4.5,rot:55,y:-1.2})]}),
+  newTier(3.2,1.8,{color:'#b73a26',finish:'fondant',top:'rope',pipe:'#1d1b1f',bottom:'rope',bottomColor:'#1d1b1f'}),
+  newTier(4.4,1.8,{color:'#c1442e',finish:'fondant',texture:'ruffle',top:'none',bottom:'none',decor:[DC('cash','cluster',22,{size:340,center:true}),DC('dollarsign','cluster',3,{color:'#d4ae5a',size:230,center:true})]})]}});

diff --git a/tools/sig-themes.js b/tools/sig-themes.js
@@ -23,10 +23,10 @@ THEMES.unshift(
   newTier(6,4.8,{color:'#7cc8b8',finish:'fondant',top:'none',bottom:'none',decor:[DC('glitterspheres','cluster',5,{color:'#b0825f',size:330}),DC('glitterspheres','cluster',4,{color:'#f3ead8',size:310}),DC('spheres','cluster',3,{color:'#5fb3a3',size:300}),DC('glitterspheres','cascade',4,{color:'#b0825f',rot:-30,size:260}),DC('glitterspheres','cascade',3,{color:'#f3ead8',rot:-28,size:260}),DC('sprinkles','cascade',130,{mix:['#5fb3a3','#d4ae5a','#c9ccd2','#fbf7f1'],rot:-24})]})]}},
  {key:'sig_cow',name:'Pink Bow Cow',tag:SIG,blurb:'A tall white cow cake with black spots, a cartoon face and pink nose, black horns, floppy ears and pink bows.',d:{board:'white',boardColor:'#fbf7f1',topper:'none',tiers:[
   newTier(7,6,{color:'#ffffff',finish:'fondant',print:'cow',printColor:'#1d1b1f',top:'none',bottom:'none',decor:[DC('cowface','band',1,{color:'#f3a6c0',size:285,R:3.5,rot:55}),DC('cowtop','cluster',1,{color:'#f3a6c0',size:170,center:true,face:95})]})]}},
- {key:'sig_pillows',name:'Gold Damask Pillows',tag:SIG,blurb:'Stacked ivory pillow tiers with gold damask, gold rope trim, a silver rose tier and a crown of ivory roses.',d:{board:'silver',boardShape:'square',topper:'none',tiers:[
-  newTier(10,3.6,{shape:'square',color:'#fbf7f1',finish:'fondant',texture:'dimple',top:'rope',pipe:'#d4ae5a',bottom:'rope',bottomColor:'#d4ae5a',stencil:{pattern:'damask',color:'#d4ae5a',size:1.8,height:1.6,y:-.8},decor:[DC('roses','band',12,{color:'#fbf7f1',size:90,y:-1.4})]}),
-  newTier(7.5,3.4,{shape:'square',color:'#fbf7f1',finish:'fondant',texture:'ruffle',top:'none',bottom:'scrolls',bottomColor:'#d4ae5a'}),
-  newTier(5.5,3.8,{color:'#c9ccd2',texture:'rosettes',top:'none',bottom:'none',decor:[DC('roses','cluster',9,{color:'#fbf7f1'})]})]}},
+ {key:'sig_pillows',name:'Gold Damask Pillows',tag:SIG,blurb:'A pillow cake: a base tier in gold damask with a ring of ivory roses, a puffy pleated pillow with pinched corners and gold tassels, and a silver rose dome topped with ivory roses.',d:{board:'silver',boardShape:'square',topper:'none',tiers:[
+  newTier(10,3.6,{shape:'square',color:'#fbf7f1',finish:'fondant',texture:'dimple',prof:'pillow',top:'rope',pipe:'#d4ae5a',bottom:'rope',bottomColor:'#d4ae5a',stencil:{pattern:'damask',color:'#d4ae5a',size:1.8,height:1.8,y:-.8},decor:[DC('roses','band',16,{color:'#fbf7f1',size:130,y:-1.4})]}),
+  newTier(7.5,3.2,{shape:'square',color:'#fbf7f1',finish:'fondant',texture:'ruffle',prof:'pillow',top:'none',bottom:'scrolls',bottomColor:'#d4ae5a'}),
+  newTier(5.5,3.4,{color:'#c9ccd2',texture:'rosettes',prof:'dome',top:'none',bottom:'none',decor:[DC('roses','cluster',10,{color:'#fbf7f1',size:130})]})]}},
  {key:'sig_ruffles',name:'Forever Ruffles',tag:SIG,blurb:'Four ivory fondant tiers with a sweep of ruffles, a lace band and a clean top tier ready for your script topper.',d:{board:'silver',topper:'none',tiers:[
   newTier(10,5,{color:'#fbf8f2',finish:'fondant',texture:'ruffle',top:'none',bottom:'none'}),
   newTier(8,4.8,{color:'#fbf8f2',finish:'fondant',texture:'ruffle',top:'none',bottom:'none'}),
@@ -45,7 +45,7 @@ THEMES.unshift(
   newTier(6,5.6,{color:'#6fb3e8',finish:'fondant',ombre:true,ombreColor:'#eef6fc',top:'none',bottom:'none',decor:[DC('clouds','scatter',10,{color:'#fbf7f1',size:150}),DC('balloon','cluster',1,{color:'#7fb0e8',size:400,center:true,face:95}),DC('teddy','cluster',1,{color:'#fbf7f1',size:170,face:95})]})]}},
  {key:'sig_sports',name:'All-Star Sports Number',tag:SIG,blurb:'A field-green number cake with a soccer ball, baseball and glove, basketball, football and a wooden bat.',d:{cakeType:'number',number:{text:'2',height:13,layers:2,cake:'vanilla',cream:'#4f9a4a',style:'frosted'},board:'white',boardColor:'#e8762c',topper:'none',tiers:[
   newTier(8,4,{decor:[DC('soccerball','cluster',1,{size:360}),DC('baseball2','cluster',1,{size:320}),DC('glove','cluster',1,{size:380}),DC('hoopball','cluster',1,{size:360}),DC('football','cluster',1,{size:330}),DC('bat','cluster',1,{size:250})]})]}},
- {key:'sig_blocks',name:'Building Block Number',tag:SIG,blurb:'A sunny yellow number cake with toy bricks, rainbow sprinkles and a border of bricks.',d:{cakeType:'number',number:{text:'6',height:13,layers:2,cake:'vanilla',cream:'#f2c230',style:'frosted'},board:'white',boardColor:'#2f3f6b',topper:'none',tiers:[
+ {key:'sig_blocks',name:'Building Block Number',tag:SIG,blurb:'A sunny yellow number 6 with a blue window, a mosaic wall of toy bricks around the side, rainbow sprinkles and bricks on top.',d:{cakeType:'number',number:{text:'6',height:13,layers:2,cake:'vanilla',cream:'#f6c919',style:'frosted',wall:['#e8475f','#2f6fd0','#f2c230','#5cc06c','#2f6fd0','#e8475f','#2a7a3a'],wallH:.95,holeFill:'#2f6fd0'},board:'white',boardColor:'#2f3f6b',topper:'none',tiers:[
   newTier(8,4,{decor:[DC('bricks','cluster',18,{size:250,mix:['#e8475f','#2f6fd0','#5cc06c']}),DC('sprinkles','cluster',260,{mix:['#e8475f','#2f6fd0','#5cc06c','#f28a3a','#fbf7f1']})]})]}},
  {key:'sig_movie',name:'Movie Night Popcorn',tag:SIG,blurb:'A red and white striped popcorn tier overflowing with popcorn and a "13" Admit One ticket, over a black and white chevron clapperboard tier with stars.',d:{board:'gold',topper:'none',tiers:[
   newTier(9,4.6,{color:'#fbf7f1',finish:'fondant',top:'none',bottom:'none',stencil:{pattern:'chevron',color:'#1d1b1f',size:1.4,height:4.6},decor:[DC('clapper','band',1,{size:210,rot:95}),DC('stars','scatter',12,{mix:['#f3a6c0','#7fd3cc','#f2c230'],size:150}),DC('dragees','scatter',20,{color:'#f2c230',size:140})]}),
@@ -55,7 +55,7 @@ THEMES.unshift(
  {key:'sig_bee',name:'Bumble Bee Garden',tag:SIG,blurb:'A fuzzy black piped bee with a big smiling face, wings and looped antennae, resting in a garden of piped grass and sugar flowers.',d:{board:'white',boardColor:'#c9d96a',topper:'none',tiers:[
   newTier(12,1.8,{color:'#5cae4a',texture:'grass',top:'none',bottom:'none',decor:[DC('daisies','scatter',10,{color:'#fbf7f1',size:130}),DC('blossoms','scatter',16,{mix:['#f3a6c0','#f2c230','#7fb0e8','#e8475f'],size:130})]}),
   newTier(8,4.6,{color:'#1d1b1f',texture:'fur',top:'none',bottom:'none',decor:[DC('beeface','band',1,{color:'#ffd21f',size:330,R:4,rot:55,y:-.2}),DC('beetop','cluster',1,{color:'#ffd21f',size:230,center:true,face:95})]})]}},
- {key:'sig_moneybag',name:'Money Bag Birthday',tag:SIG,blurb:'A red money bag cake with a gathered neck tied with black rope, a big gold dollar sign, cash and gold dollar signs bursting out the top.',d:{board:'white',boardColor:'#e9eaec',topper:'none',tiers:[
-  newTier(8,4.4,{color:'#c1442e',finish:'fondant',texture:'knife',top:'none',bottom:'none',decor:[DC('dollarface','band',1,{color:'#d4ae5a',size:300,R:4,rot:95})]}),
-  newTier(6,2.6,{color:'#b73a26',finish:'fondant',texture:'knife',top:'none',bottom:'none'}),
-  newTier(4.4,2.2,{color:'#c1442e',finish:'fondant',texture:'knife',top:'rope',pipe:'#1d1b1f',bottom:'rope',bottomColor:'#1d1b1f',decor:[DC('cash','cluster',14,{size:260,center:true}),DC('dollarsign','cluster',3,{color:'#d4ae5a',size:210,center:true})]})]}});
+ {key:'sig_moneybag',name:'Money Bag Birthday',tag:SIG,blurb:'A red money bag cake with a gathered neck tied in thick black rope, a big gold dollar sign, and cash and gold dollar signs bursting out the top.',d:{board:'white',boardColor:'#e9eaec',topper:'none',tiers:[
+  newTier(9,8,{color:'#c1442e',finish:'fondant',prof:'bag',top:'none',bottom:'none',decor:[DC('dollarface','band',1,{color:'#d4ae5a',size:340,R:4.5,rot:55,y:-1.2})]}),
+  newTier(3.2,1.8,{color:'#b73a26',finish:'fondant',top:'rope',pipe:'#1d1b1f',bottom:'rope',bottomColor:'#1d1b1f'}),
+  newTier(4.4,1.8,{color:'#c1442e',finish:'fondant',texture:'ruffle',top:'none',bottom:'none',decor:[DC('cash','cluster',22,{size:340,center:true}),DC('dollarsign','cluster',3,{color:'#d4ae5a',size:230,center:true})]})]}});

diff --git a/tools/sig-extra.js b/tools/sig-extra.js
@@ -41,3 +41,10 @@ Object.assign(DECOR,{
  ic('glove','<ellipse cx="19" cy="19" rx="9" ry="6" fill="#c7843f"/><rect x="12" y="6" width="3" height="11" rx="1.5" fill="#c7843f"/><rect x="17" y="4" width="3" height="12" rx="1.5" fill="#c7843f"/><rect x="22" y="6" width="3" height="11" rx="1.5" fill="#c7843f"/>');
  ic('bat','<rect x="6" y="13" width="28" height="4" rx="2" fill="#c79a5b" transform="rotate(-18 20 15)"/>');
  ic('monohoop','<circle cx="20" cy="14" r="10" fill="none" stroke="#d4ae5a" stroke-width="2"/><path d="M15 19V9l5 6 5-6v10" stroke="#d4ae5a" stroke-width="1.8" fill="none"/>')}
+// ---- puffy pillow top: a square dome with pinched corners and gold tassels ----
+function pillowTopParts(q,c,mode,dc){const N=40,g=new T.PlaneGeometry(2,2,N,N);g.rotateX(-PI/2);const p=g.attributes.position;for(let i=0;i<p.count;i++){const x=p.getX(i),z=p.getZ(i),ex=1-Math.pow(Math.abs(x),2.4),ez=1-Math.pow(Math.abs(z),2.4),pinch=1-.5*Math.pow(Math.abs(x*z),1.3);p.setY(i,.3*Math.max(0,ex*ez)*pinch)}g.computeVertexNormals();
+ const tass=[];for(const sx of[-1,1])for(const sz of[-1,1]){const t=new T.SphereGeometry(.07,12,8);t.translate(sx*.99,.05,sz*.99);tass.push(t);const t2=new T.ConeGeometry(.05,.18,10);t2.rotateX(PI);t2.translate(sx*1.02,-.02,sz*1.02);tass.push(t2)}
+ return[[dmat(c,{r:.5,sh:.45}),norm(g)],[sgMat.metal('#d4ae5a'),mg(tass)]]}
+DECOR.pillowtop={label:'Puffy Pillow Top',layouts:['cluster'],layout:'cluster',count:1,max:1,color:'#fbf7f1',colors:['#fbf7f1','#f3d6d9','#c9dbef'],sp:3,side:'up',sink:0,tilt:[0,0],spin:0,make:pillowTopParts};
+DECOR_ICONS.pillowtop=di('<path d="M6 22q14-14 28 0q-14 4-28 0z" fill="#fbf7f1" stroke="#d9cdbd"/><circle cx="6" cy="22" r="1.6" fill="#d4ae5a"/><circle cx="34" cy="22" r="1.6" fill="#d4ae5a"/>');
+{const c=DECOR_CATS.find(x=>x.key==='signature');void 0}

diff --git a/tools/sig-pieces.js b/tools/sig-pieces.js
@@ -62,7 +62,7 @@ function dollarFaceParts(q,c,mode,dc){const g=dollarGeo();g.scale(1.6,1.6,.35);g
 function sugarBowParts(q,c){const g=bowGeo(q,.9);g.rotateX(-PI/2);return[[bowMat(c),g]]}
 function cowTopParts(q,c,mode,dc){const horns=[],ears=[],inner=[];const sp=(dc&&dc.spread)||1.15;
  for(const sd of[-1,1]){const pts=[];for(let i=0;i<=12;i++){const t=i/12;pts.push(new V3(sd*(sp-.1*t+.18*t*t),t*.95,-.05*t))}const tube=new T.TubeGeometry(new T.CatmullRomCurve3(pts),20,.16,14,false),pp=tube.attributes.position;for(let i=0;i<pp.count;i++){const y=pp.getY(i),k=Math.max(.15,1-y/1.05),cx=sd*(sp-.1*(y/.95)+.18*(y/.95)**2);pp.setX(i,cx+(pp.getX(i)-cx)*k);pp.setZ(i,pp.getZ(i)*k)}tube.computeVertexNormals();horns.push(tube);
-  const ear=new T.SphereGeometry(1,24,14);ear.scale(.5,.06,.28);ear.rotateZ(sd*.35);ear.translate(sd*(sp+.95),-.05,.25);ears.push(ear);const inn=new T.SphereGeometry(1,20,12);inn.scale(.38,.05,.2);inn.rotateZ(sd*.35);inn.translate(sd*(sp+.98),-.02,.29);inner.push(inn)}
+  const ear=new T.SphereGeometry(1,24,14);ear.scale(.62,.07,.34);ear.rotateZ(-sd*.5);ear.translate(sd*(sp+.55),-.12,.1);ears.push(ear);const inn=new T.SphereGeometry(1,20,12);inn.scale(.45,.06,.24);inn.rotateZ(-sd*.5);inn.translate(sd*(sp+.55),-.09,.16);inner.push(inn)}
  const bows=[];for(const sd of[-1,1]){const b=bowGeo(q,.8);b.translate(sd*sp,.25,.25);bows.push(b)}
  return[[dmat('#1d1b1f',{r:.35,cc:.5}),mg(horns)],[dmat('#fbf7f1',{r:.45,cc:.3}),mg(ears)],[dmat('#f3a6c0',{r:.45,cc:.3}),mg(inner)],[bowMat(c),mergeGeometries(bows)]]}
 function cowFaceParts(q,c,mode,dc){const black=[],white=[],pink=[],dark=[];
